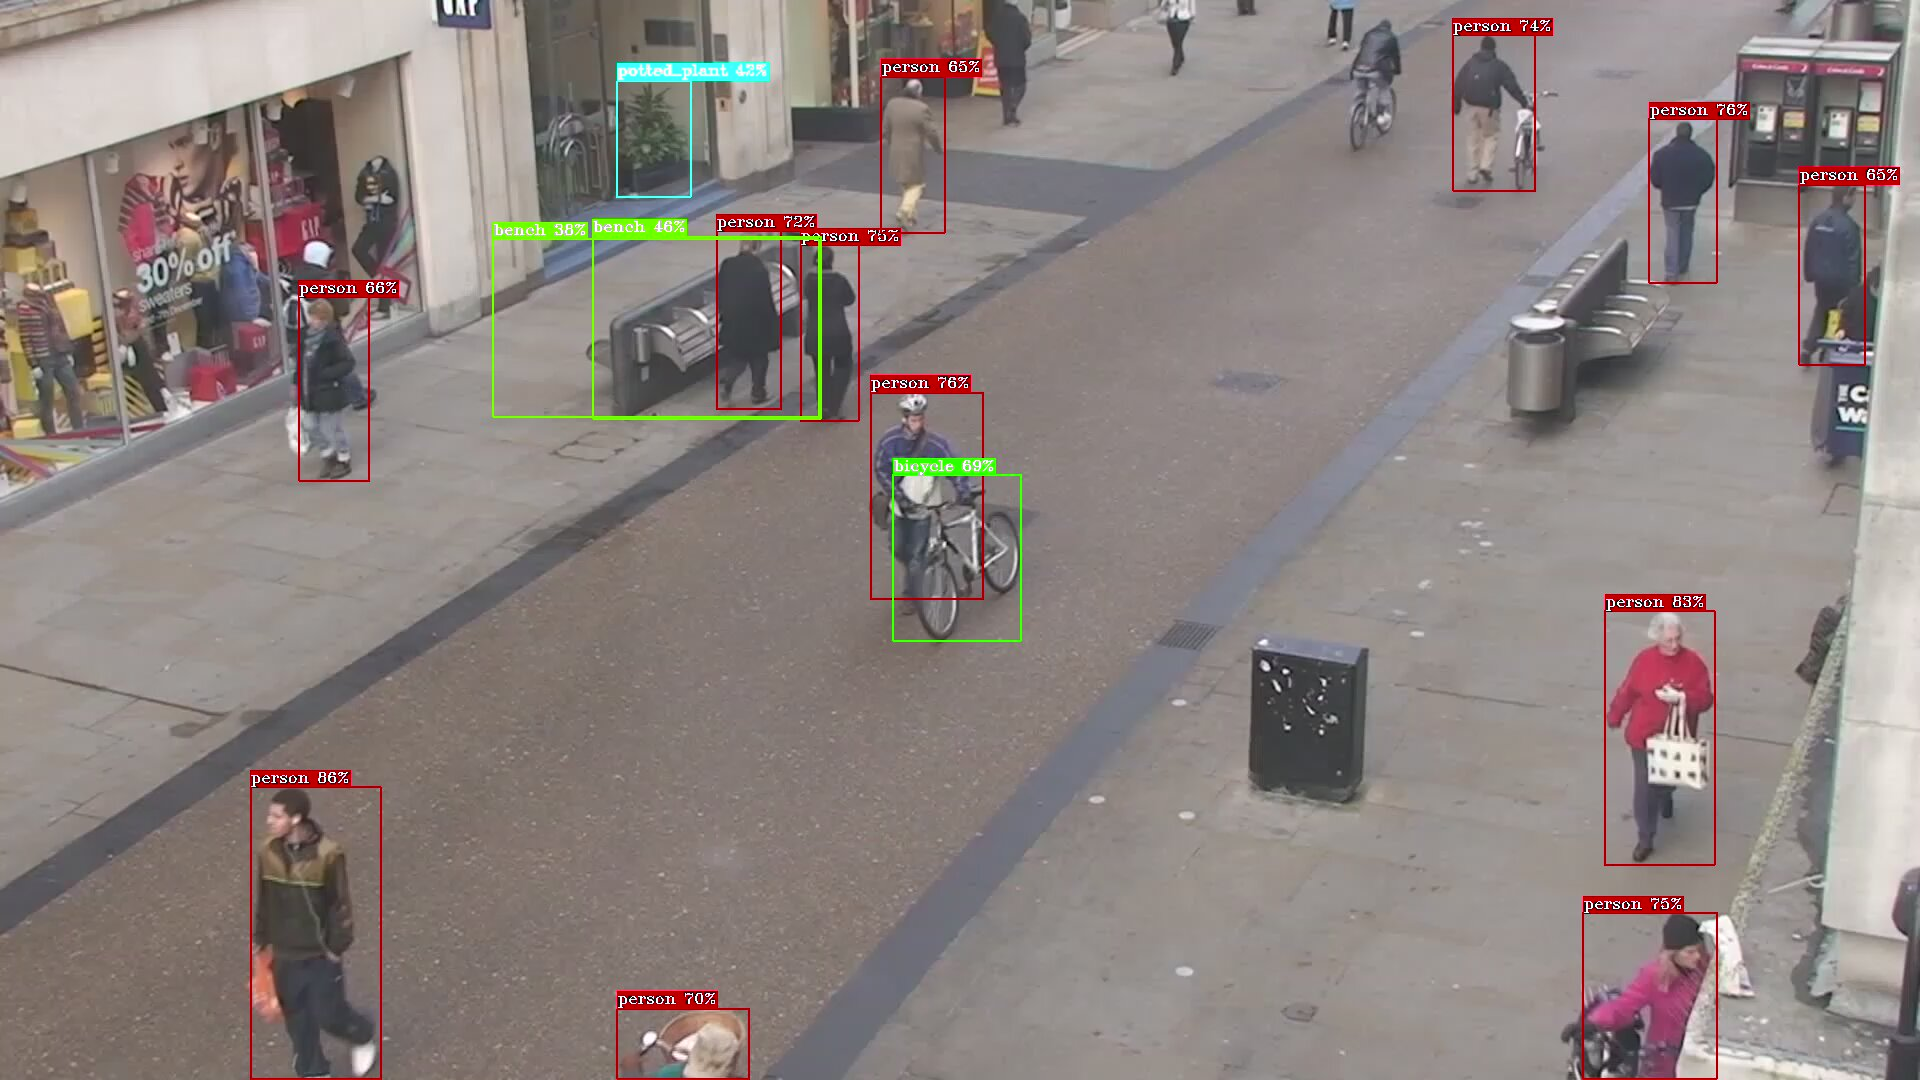
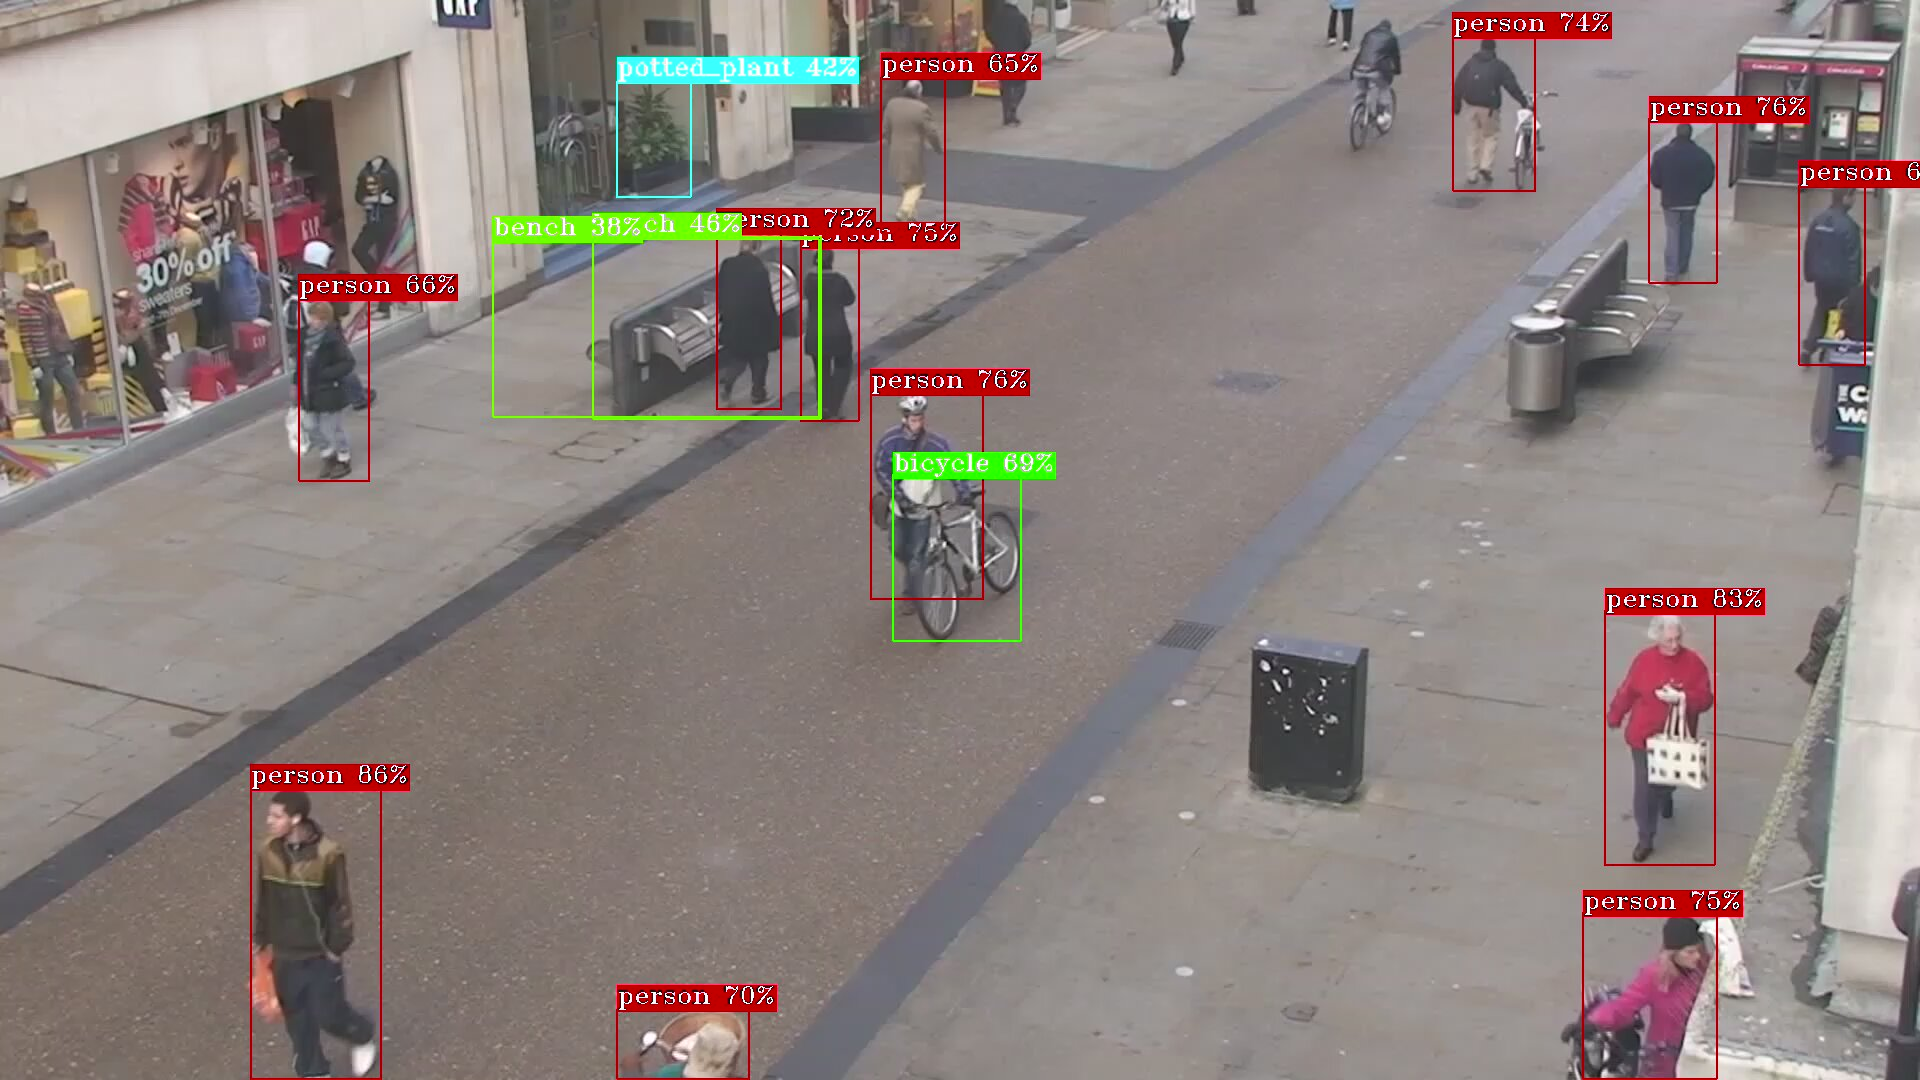
Refine e2e performance sample configuration and docs

diff --git a/samples/gstreamer/e2e_performance/perf_comparison.py b/samples/gstreamer/e2e_performance/perf_comparison.py
@@ -32,8 +32,7 @@ CONFIDENCE_THRESHOLD = 0.35         # used by dlstreamer.py gvadetect threshold
 # iGPU inference config (shared by dlstreamer.py)
 INFERENCE_DEVICE = "GPU"
 NIREQ = 4                           # async inference request slots
-QUEUE_SIZE = 8                       # GStreamer queue between decode and inference
-
+QUEUE_SIZE = NIREQ * 2              # one set active, one set ready
 # snapshot + benchmark config
 SNAPSHOT_FRAMES = 90                 # frames to process when saving detection image
 RUN_COOLDOWN = 2                     # seconds between runs to reduce thermal variance
@@ -107,7 +106,7 @@ def main() -> None:
     ap = argparse.ArgumentParser(description=__doc__)
     ap.add_argument("--video", type=Path, default=None)
     ap.add_argument("--model", type=Path, default=None)
-    ap.add_argument("--frames", type=int, default=200)
+    ap.add_argument("--measure-frames", type=int, default=200)
     ap.add_argument("--warmup", type=int, default=50)
     ap.add_argument("--runs", type=int, default=3)
     args = ap.parse_args()
@@ -126,18 +125,18 @@ def main() -> None:
 
     print(f"Model : {model_dir}")
     print(f"Video : {video}")
-    print(f"Config: {args.frames} frames + {args.warmup} warmup x {args.runs} runs\n")
+    print(f"Config: {args.measure_frames} measured frames + {args.warmup} warmup x {args.runs} runs\n")
 
     ov_results = _benchmark(
         "OpenCV + OpenVINO (notebook approach, iGPU inference)",
         opencv_openvino.run, model_dir, video,
-        args.frames, args.warmup, args.runs)
+        args.measure_frames, args.warmup, args.runs)
     opencv_openvino.save_snapshot(model_dir, video, OUTPUT_DIR / "opencv_openvino_detection.jpg")
 
     dls_results = _benchmark(
         "\nDLStreamer (iGPU decode, zero-copy, async nireq=4)",
         dlstreamer.run, model_xml, video,
-        args.frames, args.warmup, args.runs)
+        args.measure_frames, args.warmup, args.runs)
     dlstreamer.save_snapshot(model_xml, video, OUTPUT_DIR / "dlstreamer_detection.jpg")
 
     ov_fps = statistics.mean(r.fps for r in ov_results)

diff --git a/samples/gstreamer/e2e_performance/dlstreamer.py b/samples/gstreamer/e2e_performance/dlstreamer.py
@@ -36,7 +36,8 @@ def _pipeline(model_xml: Path, video: Path, sink: str, *, num_buffers: int = 0) 
             f"! gvadetect model={model_xml} device={INFERENCE_DEVICE} "
             f"pre-process-backend=va-surface-sharing nireq={NIREQ} "
             f"batch-size=1 threshold={CONFIDENCE_THRESHOLD} "
-            f"! queue max-size-buffers={QUEUE_SIZE} ! {sink}")
+            f"! queue max-size-buffers={QUEUE_SIZE} "
+            f"! {sink}")
 
 
 def _run_pipeline(pipeline, timeout_sec: int = 60):
@@ -81,7 +82,7 @@ def run(model_xml: Path, video: Path, num_frames: int, warmup: int):
 def save_snapshot(model_xml: Path, video: Path, out_path: Path):
     """Save first annotated detection frame via gvawatermark through GStreamer."""
     Gst = _gst()
-    sink = (f"vapostproc ! gvawatermark ! videoconvert "
+    sink = (f"vapostproc ! gvawatermark displ-cfg=font-scale=0.8 ! videoconvert "
             f"! jpegenc snapshot=true ! filesink location={out_path}")
     pipe = Gst.parse_launch(_pipeline(model_xml, video, sink, num_buffers=SNAPSHOT_FRAMES))
     _run_pipeline(pipe)

diff --git a/samples/gstreamer/e2e_performance/README.md b/samples/gstreamer/e2e_performance/README.md
@@ -33,12 +33,7 @@ compute engine is continuously busy. The notebook approach uploads a
 system-memory tensor to the iGPU before each inference and downloads the
 result after.
 
-### 4. GPU-accelerated overlay
-
-DL Streamer draws bounding boxes directly on GPU-resident frames via
-`gvawatermark`, avoiding CPU-side rendering.
-
-### Pipeline comparison
+### Approach comparison
 
 **OpenCV + OpenVINO** (notebook approach) – CPU decode, sync iGPU inference:
 
@@ -51,7 +46,7 @@ flowchart LR
 
 ```mermaid
 flowchart LR
-    D1["iGPU decode\n(vah264dec)"] --> D2["iGPU preprocess + inference\n(zero-copy, nireq=4)"] --> D3["Metadata\nto CPU"]
+    D1["iGPU decode\n(vah264dec)"] --> D2["iGPU preprocess + inference\n(zero-copy, nireq=4)"] --> D3["Queue\n2 x nireq"] --> D4["Metadata\nto CPU"]
 ```
 
 ## Example run
@@ -60,20 +55,20 @@ flowchart LR
 $ python3 perf_comparison.py
 
 OpenCV + OpenVINO (notebook approach, iGPU inference)
-  run 1: 63.4 fps  15.8 ms/frame  (200 frames)
-  run 2: 65.2 fps  15.3 ms/frame  (200 frames)
-  run 3: 60.8 fps  16.4 ms/frame  (200 frames)
+  run 1: 62.8 fps  15.9 ms/frame  (200 frames)
+  run 2: 61.6 fps  16.2 ms/frame  (200 frames)
+  run 3: 64.3 fps  15.6 ms/frame  (200 frames)
 
 DLStreamer (iGPU decode, zero-copy, async nireq=4)
-  run 1: 148.8 fps  6.7 ms/frame  (200 frames)
-  run 2: 146.3 fps  6.8 ms/frame  (200 frames)
-  run 3: 148.6 fps  6.7 ms/frame  (200 frames)
+  run 1: 147.1 fps  6.8 ms/frame  (200 frames)
+  run 2: 150.1 fps  6.7 ms/frame  (200 frames)
+  run 3: 148.8 fps  6.7 ms/frame  (200 frames)
 
 ----------------------------------------------------------------
-  OpenCV+OV (iGPU) :    63.2 fps   15.8 ms/frame
-  DLStreamer (iGPU):   147.9 fps    6.8 ms/frame
+  OpenCV+OV (iGPU) :    62.9 fps   15.9 ms/frame
+  DLStreamer (iGPU):   148.7 fps   6.7 ms/frame
 ----------------------------------------------------------------
-  DLStreamer advantage: up to 134% higher throughput
+  DLStreamer advantage: up to ~2.3x higher throughput
 ----------------------------------------------------------------
 ```
 
@@ -105,7 +100,7 @@ Both pipelines save annotated frames with bounding boxes to `output/`:
 - Linux (Ubuntu 22.04 / 24.04)
 - Intel(R) Core(TM) Ultra series processor with integrated GPU
 - DL Streamer latest
-  ([installation guide](https://dlstreamer.github.io/get_started/install/install_guide_ubuntu.html))
+  ([installation guide](https://docs.openedgeplatform.intel.com/dev/edge-ai-libraries/dlstreamer/get_started/install/install_guide_ubuntu.html))
 - Python 3.10 or later
 
 If any Python packages are missing:
@@ -132,7 +127,7 @@ python3 perf_comparison.py
 |---|---|---|
 | `--video` | auto-download people.mp4 | path to H.264 input video |
 | `--model` | auto-export YOLO26s INT8 | path to OpenVINO IR directory |
-| `--frames` | 200 | measured frames per run |
+| `--measure-frames` | 200 | frames included in the benchmark after warmup |
 | `--warmup` | 50 | warmup frames |
 | `--runs` | 3 | repeated runs |
 
@@ -144,5 +139,5 @@ flowchart LR
     C --> D["vah264dec\niGPU HW decode"]
     D --> E["VAMemory\nNV12"]
     E --> F["gvadetect\nGPU, va-surface-sharing\nnireq=4"]
-    F --> G[queue] --> H[fakesink]
+    F --> G["queue\n2 x nireq"] --> H[fakesink]
 ```
